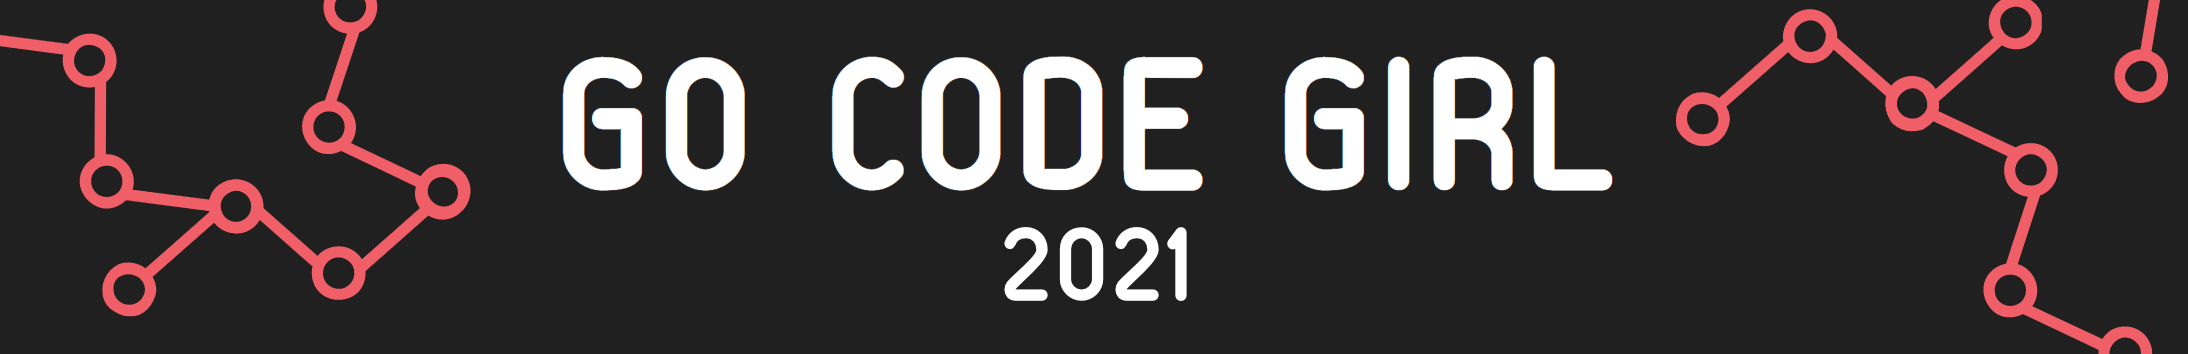
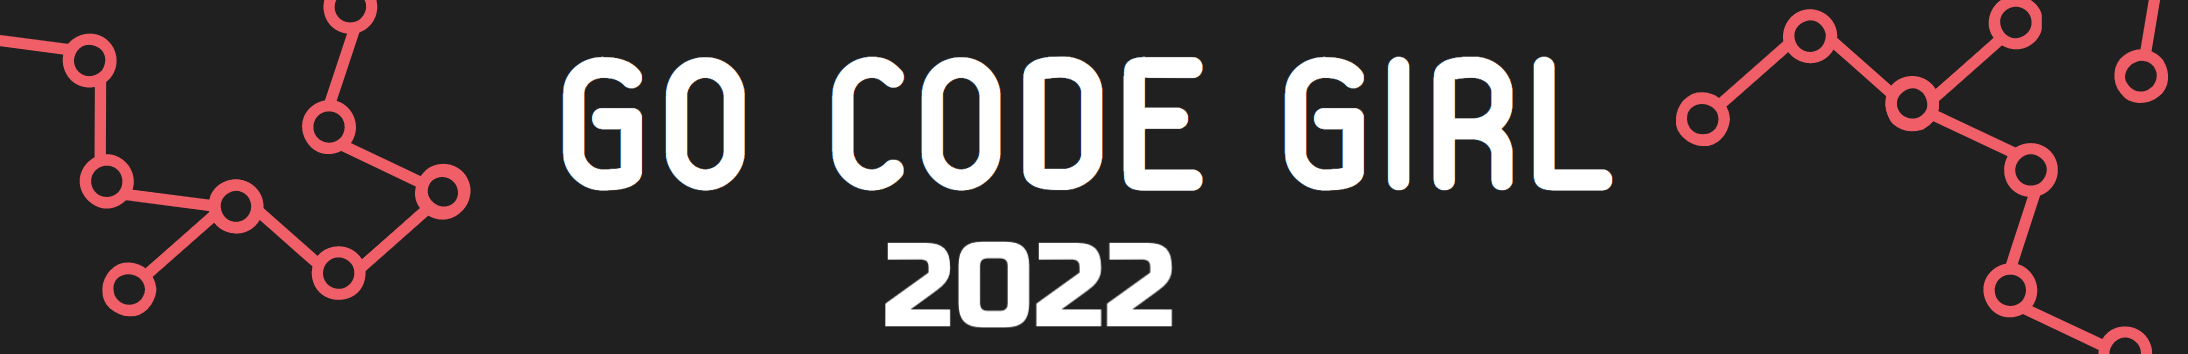
Updated for 2022 event

Changed region(s): [[0.404, 0.6215, 0.5594, 0.9322]]

diff --git a/gocodegirl.html b/gocodegirl.html
@@ -64,7 +64,7 @@
             <h2 class="section-heading text-uppercase text-center" style="margin-top: 2rem;">Welcome, coders!</h2>
             <center>
             <div class="text-center" style="max-width: 70%;">
-              Thanks for joining us - we're so excited to be hosting the first ever virtual Go CODE Girl at U of G!<br>
+              Thanks for joining us - we're so excited to be hosting our virtual Go CODE Girl event at U of G!<br>
               Buckle in and get ready for a fun afternoon of coding, learning and digital sleuthing.<br>
               All the info you need for the afternoon can be found on this page. Please email us at <a href="mailto:gwics@uoguelph.ca">gwics@uoguelph.ca</a> if you have any questions or need help throughout the event!</p>
             </div>
@@ -78,8 +78,8 @@
               A person's phone is a treasure trove of information. Phones know where you've been, who you know, and what you say. In this activity, we will demonstrate how to extract information off an Android device, then we will use that information to find evidence to help us solve a "crime"! This workshop does not require any prior coding experience. Get ready to catch some criminals!
             </p>
             <ul class="mb-4">
-              <li><a href="https://docs.google.com/presentation/d/1YRC2rgkF3pvCdLP2OxbvO6mkFpHz_7ltaCIJhFJC-VQ/edit?usp=sharing" target="_blank">View Powerpoint Slides</a></li>
-              <li><a href="img/Phones.zip" target="_blank">Download Folder of Phones</a></li>
+              <li><a href="https://docs.google.com/presentation/d/1WspkdFhn2jyHj-RBC0TEpUp9Up4Vmov3RuY69bwG3Zs/edit?usp=sharing" target="_blank">View Powerpoint Slides</a></li>
+              <li><a href="https://drive.google.com/drive/folders/1MX7KyyuNKHXIK19It5ua9RpqBzlUVbsl?usp=sharing" target="_blank">Download Folder of Phones</a></li>
             </ul>
 
             <h4 class="text-uppercase mb-0 mt-4">Workshop B: Build your own Website</h5>
@@ -98,18 +98,18 @@
                 <div class="row">
                   <div class="col-sm-6">
                     <div class="team-member">
-                      <img class="mx-auto rounded-circle" src="img/lindsay.jpg" alt="">
-                      <h4>Lindsay Elliott</h4>
-                      <p class="mb-0"><b>Software Developer @ Tulip Retail</b></p>
+                      <img class="mx-auto rounded-circle" src="img/maddie.jpg" alt="">
+                      <h4>Maddie Gabriel</h4>
+                      <p class="mb-0"><b>Software Developer @ D2L</b></p>
                       <p class="mt-0">U of G & GWiCS Alumnus!</p>
                     </div>
                   </div>
                   <div class="col-sm-6">
                     <div class="team-member">
-                      <img class="mx-auto rounded-circle" src="img/kassidy.jpeg" alt="">
-                      <h4>Kassidy Marsh</h4>
-                      <p class="mb-0"><b>Cybersecurity Consultant @ KPMG</b></p>
-                      <p class="mt-0">U of G & GWiCS Alumnus!</p>
+                      <img class="mx-auto rounded-circle" src="img/ariana.jpg" alt="">
+                      <h4>Ariana Vargis</h4>
+                      <p class="mb-0"><b>Risk Analyst @ Canada Revenue Agency</b></p>
+                      <p class="mt-0">U of G Alumnus!</p>
                     </div>
                   </div>
                 </div>
